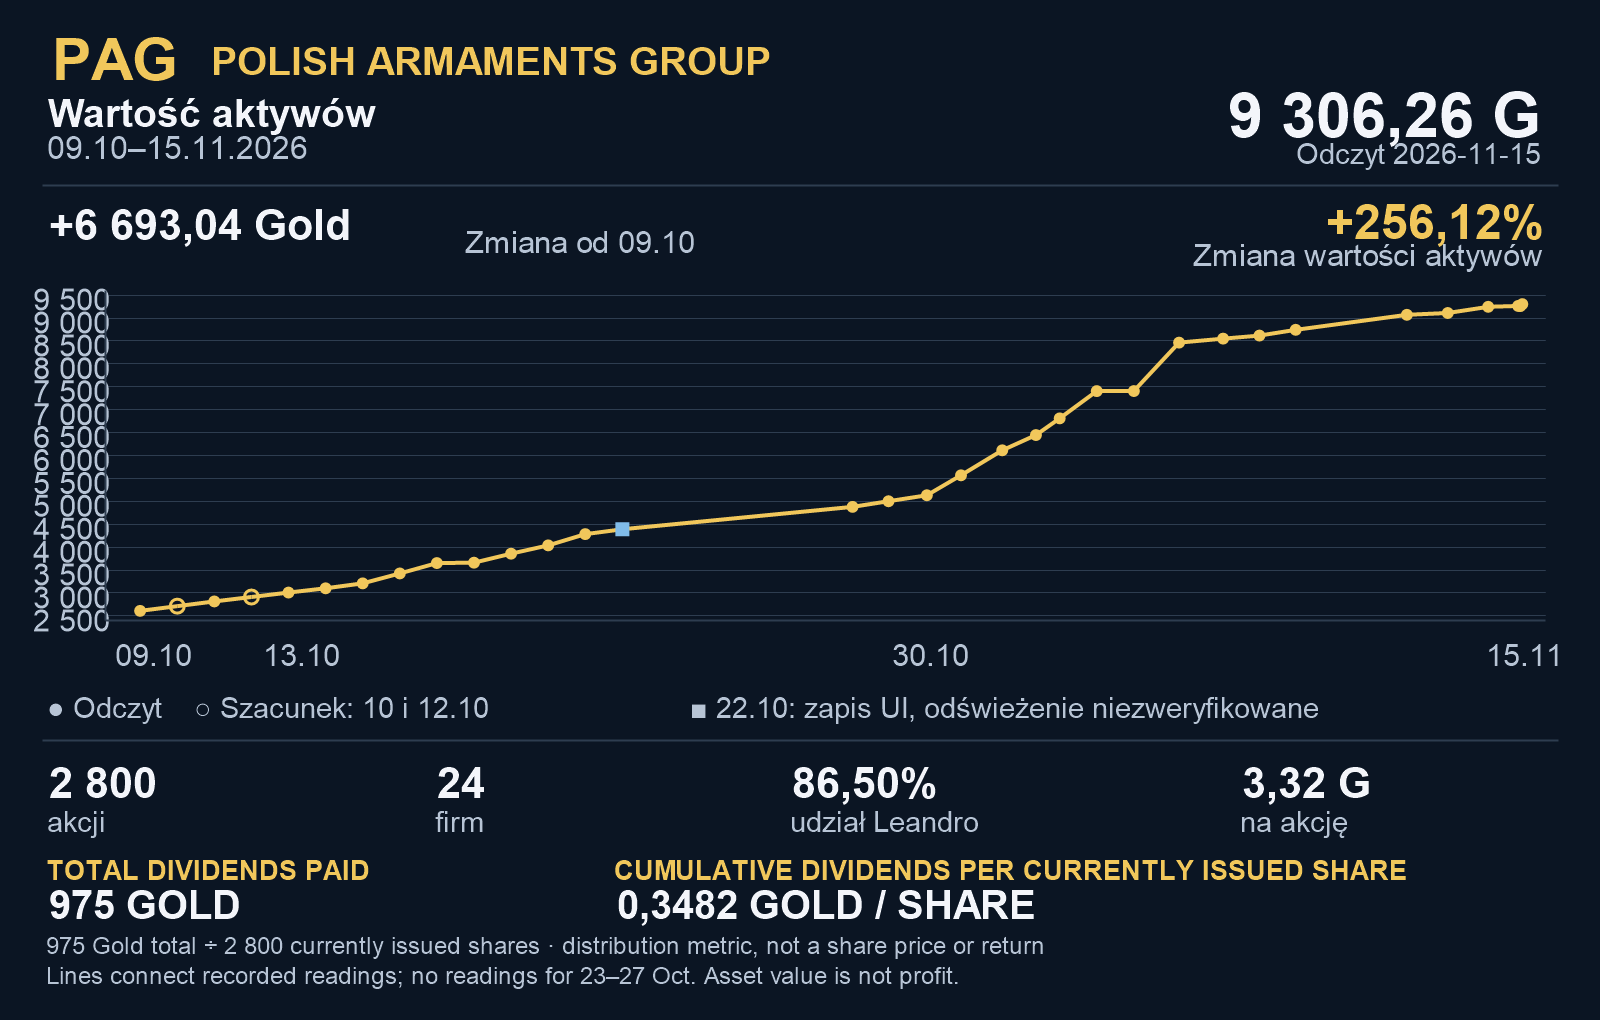
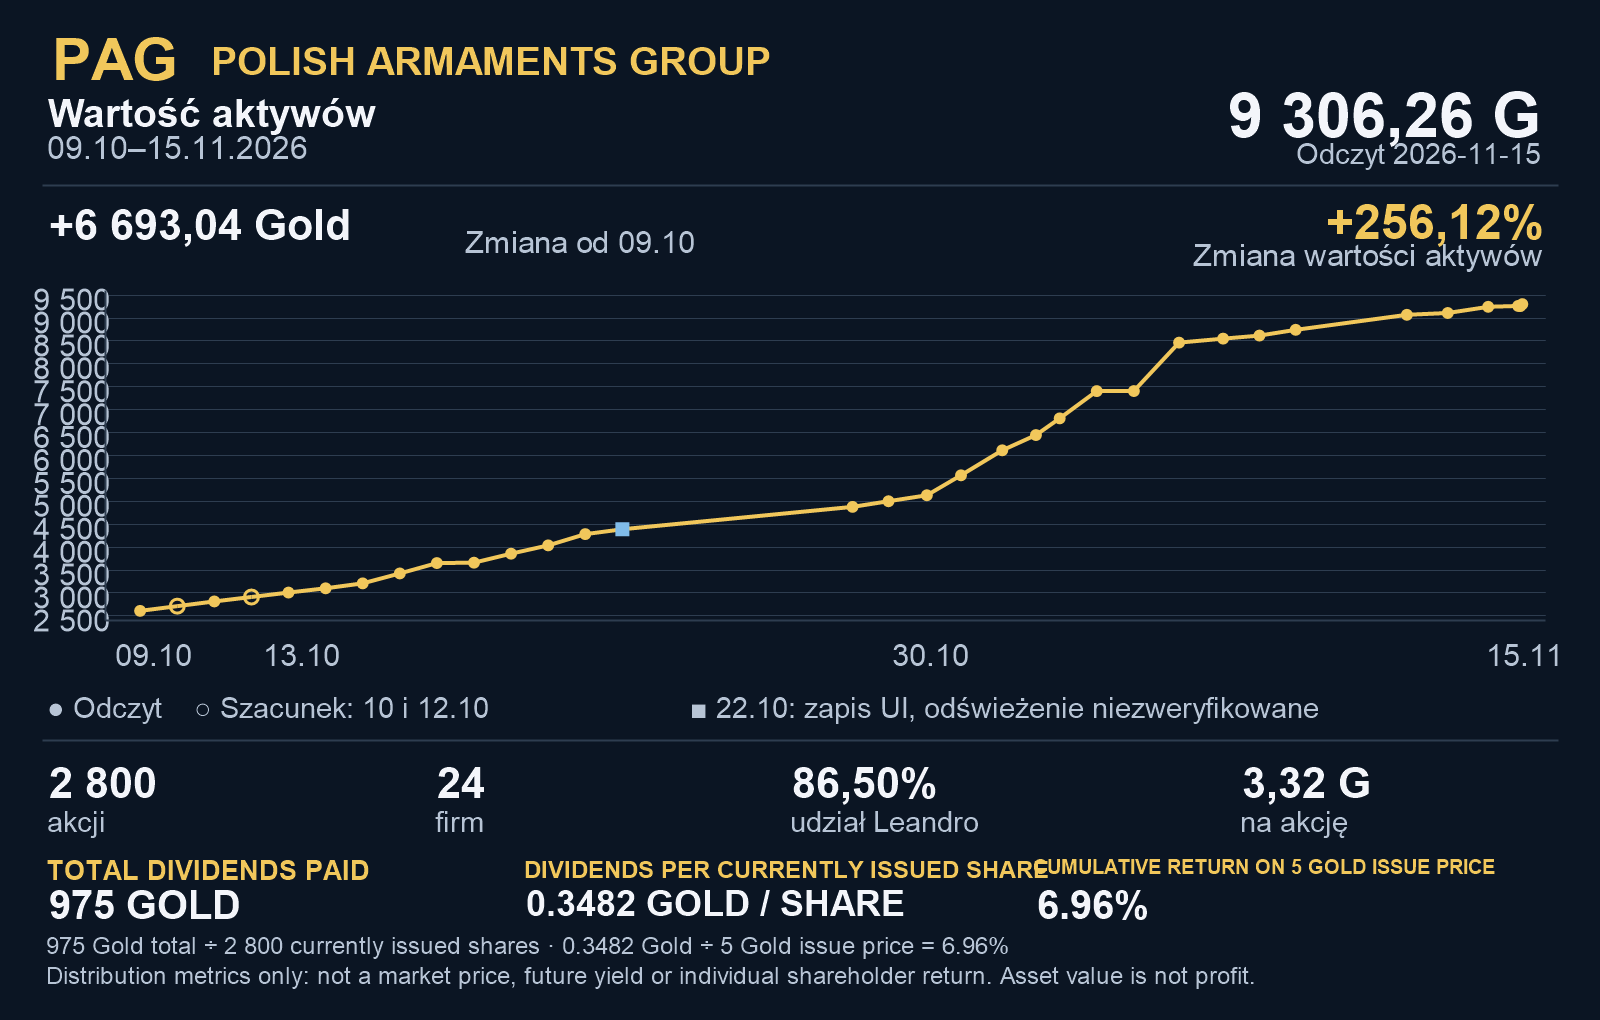
Show dividend return on issue price

Changed region(s): [[0.0312, 0.8206, 0.9375, 0.9725]]

diff --git a/pag-chart.html b/pag-chart.html
@@ -1812,11 +1812,14 @@ const data=history.observations.map(d=&gt;({...d,x:new Date(d.date+&#x27;T12:00:
 const metrics={value_gold:[&#x27;Wartość spółki&#x27;,&#x27;Gold&#x27;,2],shares:[&#x27;Wyemitowane akcje&#x27;,&#x27;akcje&#x27;,0],leandro_shares:[&#x27;Akcje Leandro Daniels&#x27;,&#x27;akcje&#x27;,0],ownership:[&#x27;Udział Leandro&#x27;,&#x27;%&#x27;,2],perShare:[&#x27;Wartość aktywów na akcję&#x27;,&#x27;Gold/akcję&#x27;,4],factories:[&#x27;Fabryki&#x27;,&#x27;fabryki&#x27;,0]};
 const statuses={confirmed:&#x27;Odczyt / dane użytkownika&#x27;,confirmed_in_user_report:&#x27;Potwierdzone według raportu użytkownika&#x27;,estimated_missing_day:&#x27;Szacunek brakującego dnia&#x27;,saved_ui_refresh_unverified:&#x27;Zapis UI: odświeżenie niezweryfikowane&#x27;};
 const fmt=(v,n=2)=&gt;v==null?&#x27;—&#x27;:v.toLocaleString(&#x27;pl-PL&#x27;,{minimumFractionDigits:n,maximumFractionDigits:n});
+const fmtEN=(v,n=2)=&gt;v==null?&#x27;—&#x27;:v.toLocaleString(&#x27;en-US&#x27;,{minimumFractionDigits:n,maximumFractionDigits:n});
 const dateLabel=d=&gt;d.slice(8,10)+&#x27;.&#x27;+d.slice(5,7)+&#x27;.&#x27;+d.slice(0,4);
 const base=data.find(d=&gt;d.date===&#x27;2026-10-11&#x27;),latest=data.at(-1);
 const dividendTotal=(history.dividend_distributions||[]).reduce((sum,d)=&gt;sum+Number(d.amount_gold||0),0);
 const dividendPerCurrentShare=latest.shares&gt;0?dividendTotal/latest.shares:null;
-root.querySelector(&#x27;#pag-dividend-summary&#x27;).textContent=&#x27;TOTAL DIVIDENDS PAID: &#x27;+fmt(dividendTotal,0)+&#x27; GOLD · CUMULATIVE DIVIDENDS PER CURRENTLY ISSUED SHARE: &#x27;+fmt(dividendPerCurrentShare,4)+&#x27; GOLD / SHARE · &#x27;+fmt(dividendTotal,0)+&#x27; Gold ÷ &#x27;+fmt(latest.shares,0)+&#x27; currently issued shares; distribution metric, not a share price or return.&#x27;;
+const issuePriceGold=5;
+const cumulativeDividendReturn=dividendPerCurrentShare==null?null:100*dividendPerCurrentShare/issuePriceGold;
+root.querySelector(&#x27;#pag-dividend-summary&#x27;).textContent=&#x27;TOTAL DIVIDENDS PAID: &#x27;+fmtEN(dividendTotal,0)+&#x27; GOLD · DIVIDENDS PER CURRENTLY ISSUED SHARE: &#x27;+fmtEN(dividendPerCurrentShare,4)+&#x27; GOLD / SHARE · CUMULATIVE RETURN ON 5 GOLD ISSUE PRICE: &#x27;+fmtEN(cumulativeDividendReturn,2)+&#x27;% · &#x27;+fmtEN(dividendPerCurrentShare,4)+&#x27; Gold dividend ÷ 5 Gold issue price. Distribution metric, not a market price, future yield or individual shareholder return.&#x27;;
 root.querySelector(&#x27;#pag-latest&#x27;).textContent=dateLabel(latest.date);
 Object.entries(metrics).forEach(([k,[name,unit,n]])=&gt;{const tr=document.createElement(&#x27;tr&#x27;),a=base[k],b=latest[k];[name+&#x27; (&#x27;+unit+&#x27;)&#x27;,fmt(a,n),fmt(b,n),a==null||b==null?&#x27;—&#x27;:(b&gt;=a?&#x27;+&#x27;:&#x27;&#x27;)+fmt(b-a,n)+(k===&#x27;ownership&#x27;?&#x27; pp&#x27;:&#x27;&#x27;)].forEach(v=&gt;{const td=document.createElement(&#x27;td&#x27;);td.textContent=v;tr.append(td)});root.querySelector(&#x27;#pag-summary&#x27;).append(tr)});
 function draw(){

diff --git a/pag-growth.html b/pag-growth.html
@@ -20,11 +20,14 @@ const data=history.observations.map(d=>({...d,x:new Date(d.date+'T12:00:00Z'),ow
 const metrics={value_gold:['Wartość spółki','Gold',2],shares:['Wyemitowane akcje','akcje',0],leandro_shares:['Akcje Leandro Daniels','akcje',0],ownership:['Udział Leandro','%',2],perShare:['Wartość aktywów na akcję','Gold/akcję',4],factories:['Fabryki','fabryki',0]};
 const statuses={confirmed:'Odczyt / dane użytkownika',confirmed_in_user_report:'Potwierdzone według raportu użytkownika',estimated_missing_day:'Szacunek brakującego dnia',saved_ui_refresh_unverified:'Zapis UI: odświeżenie niezweryfikowane'};
 const fmt=(v,n=2)=>v==null?'—':v.toLocaleString('pl-PL',{minimumFractionDigits:n,maximumFractionDigits:n});
+const fmtEN=(v,n=2)=>v==null?'—':v.toLocaleString('en-US',{minimumFractionDigits:n,maximumFractionDigits:n});
 const dateLabel=d=>d.slice(8,10)+'.'+d.slice(5,7)+'.'+d.slice(0,4);
 const base=data.find(d=>d.date==='2026-10-11'),latest=data.at(-1);
 const dividendTotal=(history.dividend_distributions||[]).reduce((sum,d)=>sum+Number(d.amount_gold||0),0);
 const dividendPerCurrentShare=latest.shares>0?dividendTotal/latest.shares:null;
-root.querySelector('#pag-dividend-summary').textContent='TOTAL DIVIDENDS PAID: '+fmt(dividendTotal,0)+' GOLD · CUMULATIVE DIVIDENDS PER CURRENTLY ISSUED SHARE: '+fmt(dividendPerCurrentShare,4)+' GOLD / SHARE · '+fmt(dividendTotal,0)+' Gold ÷ '+fmt(latest.shares,0)+' currently issued shares; distribution metric, not a share price or return.';
+const issuePriceGold=5;
+const cumulativeDividendReturn=dividendPerCurrentShare==null?null:100*dividendPerCurrentShare/issuePriceGold;
+root.querySelector('#pag-dividend-summary').textContent='TOTAL DIVIDENDS PAID: '+fmtEN(dividendTotal,0)+' GOLD · DIVIDENDS PER CURRENTLY ISSUED SHARE: '+fmtEN(dividendPerCurrentShare,4)+' GOLD / SHARE · CUMULATIVE RETURN ON 5 GOLD ISSUE PRICE: '+fmtEN(cumulativeDividendReturn,2)+'% · '+fmtEN(dividendPerCurrentShare,4)+' Gold dividend ÷ 5 Gold issue price. Distribution metric, not a market price, future yield or individual shareholder return.';
 root.querySelector('#pag-latest').textContent=dateLabel(latest.date);
 Object.entries(metrics).forEach(([k,[name,unit,n]])=>{const tr=document.createElement('tr'),a=base[k],b=latest[k];[name+' ('+unit+')',fmt(a,n),fmt(b,n),a==null||b==null?'—':(b>=a?'+':'')+fmt(b-a,n)+(k==='ownership'?' pp':'')].forEach(v=>{const td=document.createElement('td');td.textContent=v;tr.append(td)});root.querySelector('#pag-summary').append(tr)});
 function draw(){

diff --git a/pag-template.html b/pag-template.html
@@ -20,11 +20,14 @@ const data=history.observations.map(d=>({...d,x:new Date(d.date+'T12:00:00Z'),ow
 const metrics={value_gold:['Wartość spółki','Gold',2],shares:['Wyemitowane akcje','akcje',0],leandro_shares:['Akcje Leandro Daniels','akcje',0],ownership:['Udział Leandro','%',2],perShare:['Wartość aktywów na akcję','Gold/akcję',4],factories:['Fabryki','fabryki',0]};
 const statuses={confirmed:'Odczyt / dane użytkownika',confirmed_in_user_report:'Potwierdzone według raportu użytkownika',estimated_missing_day:'Szacunek brakującego dnia',saved_ui_refresh_unverified:'Zapis UI: odświeżenie niezweryfikowane'};
 const fmt=(v,n=2)=>v==null?'—':v.toLocaleString('pl-PL',{minimumFractionDigits:n,maximumFractionDigits:n});
+const fmtEN=(v,n=2)=>v==null?'—':v.toLocaleString('en-US',{minimumFractionDigits:n,maximumFractionDigits:n});
 const dateLabel=d=>d.slice(8,10)+'.'+d.slice(5,7)+'.'+d.slice(0,4);
 const base=data.find(d=>d.date==='2026-10-11'),latest=data.at(-1);
 const dividendTotal=(history.dividend_distributions||[]).reduce((sum,d)=>sum+Number(d.amount_gold||0),0);
 const dividendPerCurrentShare=latest.shares>0?dividendTotal/latest.shares:null;
-root.querySelector('#pag-dividend-summary').textContent='TOTAL DIVIDENDS PAID: '+fmt(dividendTotal,0)+' GOLD · CUMULATIVE DIVIDENDS PER CURRENTLY ISSUED SHARE: '+fmt(dividendPerCurrentShare,4)+' GOLD / SHARE · '+fmt(dividendTotal,0)+' Gold ÷ '+fmt(latest.shares,0)+' currently issued shares; distribution metric, not a share price or return.';
+const issuePriceGold=5;
+const cumulativeDividendReturn=dividendPerCurrentShare==null?null:100*dividendPerCurrentShare/issuePriceGold;
+root.querySelector('#pag-dividend-summary').textContent='TOTAL DIVIDENDS PAID: '+fmtEN(dividendTotal,0)+' GOLD · DIVIDENDS PER CURRENTLY ISSUED SHARE: '+fmtEN(dividendPerCurrentShare,4)+' GOLD / SHARE · CUMULATIVE RETURN ON 5 GOLD ISSUE PRICE: '+fmtEN(cumulativeDividendReturn,2)+'% · '+fmtEN(dividendPerCurrentShare,4)+' Gold dividend ÷ 5 Gold issue price. Distribution metric, not a market price, future yield or individual shareholder return.';
 root.querySelector('#pag-latest').textContent=dateLabel(latest.date);
 Object.entries(metrics).forEach(([k,[name,unit,n]])=>{const tr=document.createElement('tr'),a=base[k],b=latest[k];[name+' ('+unit+')',fmt(a,n),fmt(b,n),a==null||b==null?'—':(b>=a?'+':'')+fmt(b-a,n)+(k==='ownership'?' pp':'')].forEach(v=>{const td=document.createElement('td');td.textContent=v;tr.append(td)});root.querySelector('#pag-summary').append(tr)});
 function draw(){

diff --git a/README.md b/README.md
@@ -14,7 +14,7 @@ Względem poprzedniego odczytu z 15 listopada o 19:58: wartość wzrosła o **44
 
 Historia zachowuje **33 pomiary** do 15 listopada, w tym trzy odczyty tego dnia. Logi Vexa potwierdzają **975 Gold w siedmiu wypłatach**: 200 Gold (13 października), 275 Gold w czterech przelewach (30 października) i 500 Gold w dwóch przelewach (13–14 listopada). Kolejne rundy wypłat wzrosły o **37,50%** oraz **81,82%**. Odstępy wyniosły około 17 dni, a potem 14–15 dni; statut określa plan dwutygodniowy, nie gwarantowaną regularność.
 
-The chart now shows **TOTAL DIVIDENDS PAID: 975 GOLD** and **CUMULATIVE DIVIDENDS PER CURRENTLY ISSUED SHARE: 0.3482 GOLD / SHARE**. This equals 975 Gold divided by 2,800 currently issued shares. It is a distribution metric, not a share price, future yield or individual shareholder return.
+The chart now shows **TOTAL DIVIDENDS PAID: 975 GOLD**, **DIVIDENDS PER CURRENTLY ISSUED SHARE: 0.3482 GOLD / SHARE**, and **CUMULATIVE RETURN ON 5 GOLD ISSUE PRICE: 6.96%**. The calculation is 0.3482 Gold in recorded dividends per currently issued share ÷ 5 Gold issue price. It is a distribution metric for a share bought at the original 5 Gold issue price, not a market price, future yield or individual shareholder return.
 
 Najnowsze **9 306,26 Gold wartości aktywów + 975 Gold wcześniej wypłaconych dywidend = 10 281,26 Gold** to miara skumulowana do porównania. Nie oznacza aktywów pozostających w spółce, zysku PAG ani stopy zwrotu akcjonariusza. Wycena aktywów obejmuje zmiany kapitału i cen.
 
